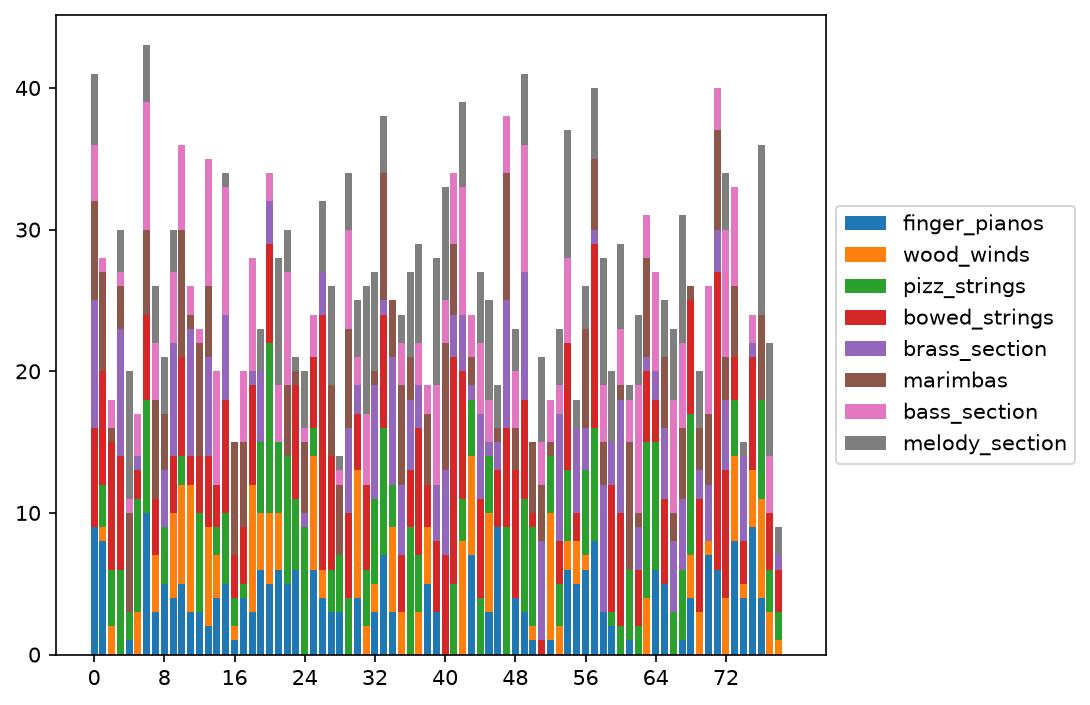
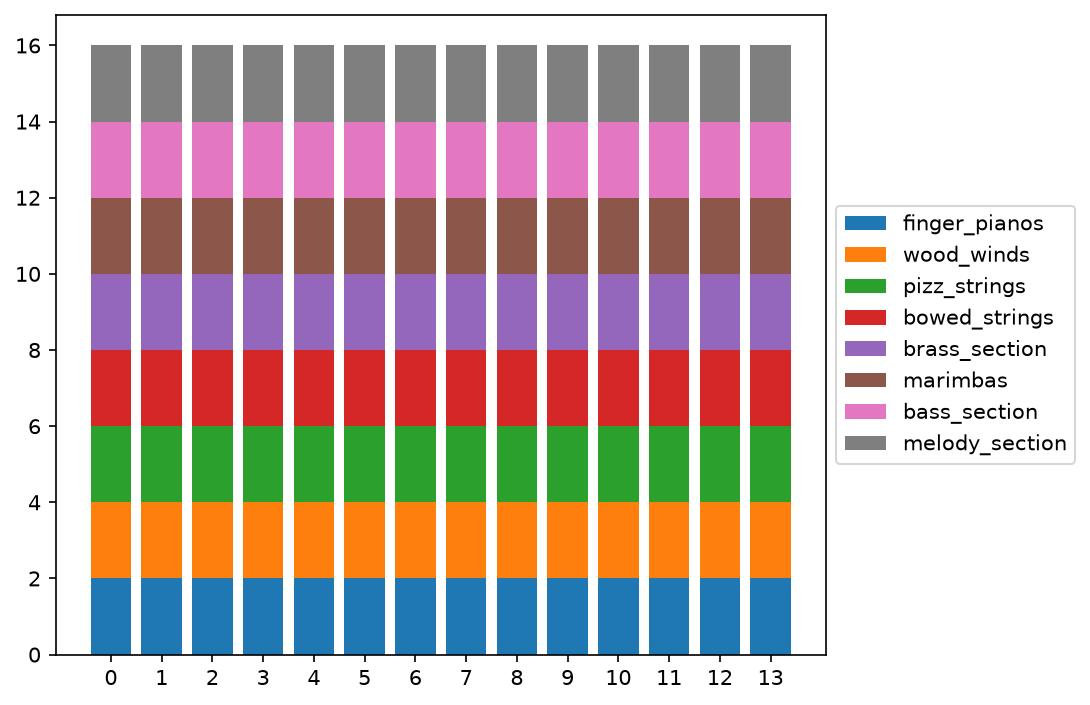
WreckingCrew.py accent default off; chord_report.py excerpts; notes
- WreckingCrew.py: --articulate_accent defaults to none (was 8@0.25).
- chord_report.py: --input_numpy_file may be a directory such as
  best-tunings (--chorale picks the chorale, newest array wins), and
  --include_slice reports on an excerpt, repeatable like WreckingCrew.py's.
- WreckingCrew.txt: session notes. plots/bwv261.jpg: regenerated.

diff --git a/chord_report.py b/chord_report.py
@@ -13,6 +13,20 @@ carries them (bwv262_t3_r1.500_lm19-opt.npy) and otherwise from the directory
 name (t3_r1.50_lm19).  --tolerance / --limit_max override, and are the only way
 to report on a file whose path encodes neither.
 
+--input_numpy_file may also be a directory of tunings, one or more per chorale,
+such as best-tunings; --chorale then picks the chorale, and the most recently
+written of its arrays is the one reported on:
+
+    python chord_report.py --chorale bwv411 --input_numpy_file Archive/straw-man/best-tunings
+
+--include_slice reports on an excerpt: raw chord columns [START, END), as
+WreckingCrew.py takes them, repeatable to join several.  Chords keep their raw
+numbers, and the slices are read as they play joined, so the first chord of a
+slice is compared against the last chord of the one before it:
+
+    python chord_report.py --chorale bwv411 --input_numpy_file Archive/straw-man/best-tunings \
+        --include_slice 0 64 --include_slice 184 208
+
 In the listing a ratio built on 11 or higher is marked *, and a cent value
 that moved more than a cent from the same pitch class in the previous chord
 is printed in red, since those moves are what the ear catches between chords.
@@ -33,7 +47,7 @@ import argparse
 import os
 import re
 import sys
-from itertools import combinations, count
+from itertools import combinations
 
 import numpy as np
 
@@ -73,6 +87,28 @@ def chorale_for(path):
     """The chorale name leading the filename, or None."""
     m = FILE_CHORALE.match(os.path.basename(path))
     return m.group(1) if m else None
+
+
+def newest_for(directory, chorale):
+    """The most recently written .npy in directory for this chorale, and how many there were."""
+    found = [os.path.join(directory, f) for f in os.listdir(directory)
+             if f.endswith('.npy') and chorale_for(f) == chorale]
+    return (max(found, key=os.path.getmtime) if found else None), len(found)
+
+
+def slice_columns(include_slice, n_chords):
+    """The raw columns the --include_slice pairs select, in order, or None for all of them."""
+    if not include_slice:
+        return None
+    cols = []
+    for start, end in include_slice:
+        if end <= start:
+            raise SystemExit(f'--include_slice expects END > START, got START={start}, END={end}')
+        if start < 0 or end > n_chords:
+            raise SystemExit(f'--include_slice expects [START, END) within 0..{n_chords}, '
+                             f'got START={start}, END={end}')
+        cols.extend(range(start, end))
+    return sorted(set(cols))
 
 
 def params_for(path, tolerance, limit_max):
@@ -248,11 +284,12 @@ def high_prime_share(cents, limit_max, tolerance):
 
 def print_chords(version, input_file, numpy_dir, measure, tolerance,
                  chord_scorer, tonal_diamond, keys, root, mode,
-                 cents, listing=True, color=False):
+                 cents, listing=True, color=False, columns=None):
     """Print the chords, and return (intervals, chord count) for the histogram.
 
     The ratios are worked out whether or not they are printed, so
-    --histogram_only counts exactly what the listing would have shown."""
+    --histogram_only counts exactly what the listing would have shown.
+    `columns` limits the report to those raw columns, read as one excerpt."""
     if listing:
         # score_video.py puts this line on the video's opening card.
         print(f'Key: {keys[root]} {mode}')
@@ -274,7 +311,10 @@ def print_chords(version, input_file, numpy_dir, measure, tolerance,
     else:
         first_col, end_col = 0, cents.shape[1]
     all_intervals, n_chords = [], 0
-    gaps = gap_voices(cents)
+    columns = list(range(cents.shape[1])) if columns is None else list(columns)
+    excerpt = cents[:, columns]
+    # Moves are counted along the excerpt as it plays, then given raw chord numbers.
+    gaps = {(columns[i], v): g for (i, v), g in gap_voices(excerpt).items()}
     if listing and gaps:
         moved = sorted({i for i, _v in gaps})
         shown = [i for i in moved if first_col <= i < end_col]
@@ -283,7 +323,7 @@ def print_chords(version, input_file, numpy_dir, measure, tolerance,
               + (f' ({len(shown)} of them in this measure)' if measure > 0 else '')
               + (': shown in red' if color else '; --color always shows them in red'))
     prev_chord = np.zeros(4, dtype=int)
-    for inx, chord_in_cents in zip(count(0, 1), cents.T):
+    for inx, chord_in_cents in zip(columns, excerpt.T):
         if not np.array_equal(prev_chord, chord_in_cents):
             if first_col <= inx < end_col:
                 n_chords += 1
@@ -324,9 +364,14 @@ def main():
     p.add_argument('--chorale', help='Chorale name, e.g. bwv262. Defaults to the '
                                      'leading bwvNNN of the filename')
     p.add_argument('--input_numpy_file', required=True,
-                   help='The tuned (4, N) cent array to report on')
+                   help='The tuned (4, N) cent array to report on, or a directory of them '
+                        '(with --chorale: its most recent array there)')
     p.add_argument('--measure', type=int, default=MEASURE,
                    help='Print only this measure; 0 prints all (default: 0)')
+    p.add_argument('--include_slice', nargs=2, type=int, metavar=('START', 'END'),
+                   action='append', default=None,
+                   help='Raw chord slice [START, END) to report on, as WreckingCrew.py takes it; '
+                        'repeat it to join several, e.g. --include_slice 0 64 --include_slice 184 208')
     p.add_argument('--histogram_only', action='store_true',
                    help='print only the prime histogram, not the chords')
     p.add_argument('--color', choices=('auto', 'always', 'never'), default='auto',
@@ -342,6 +387,19 @@ def main():
     if not os.path.exists(path):
         print(f'No such file: {path}', file=sys.stderr)
         return 1
+    if os.path.isdir(path):
+        if not args.chorale:
+            print(f'{path} is a directory: pass --chorale to say whose array to report on.',
+                  file=sys.stderr)
+            return 1
+        found, n_found = newest_for(path, args.chorale)
+        if found is None:
+            print(f'No {args.chorale} array in {path}', file=sys.stderr)
+            return 1
+        if n_found > 1:
+            print(f'{n_found} {args.chorale} arrays in {path}; using the newest, '
+                  f'{os.path.basename(found)}')
+        path = found
     chorale = args.chorale or chorale_for(path)
     if not chorale:
         print(f'Cannot tell the chorale from {os.path.basename(path)} — '
@@ -365,7 +423,9 @@ def main():
               f'It was tuned from the pre-14 Sep 2026 reading of the score (voices dealt into '
               f'rows, rests ignored), so the chords below are not the ones in the measures; '
               f're-tune {chorale} before trusting it.')
-    scores = np.array([chord_scorer.score_chord(c, tolerance=tolerance) for c in cents.T])
+    columns = slice_columns(args.include_slice, cents.shape[1])
+    shown = np.arange(cents.shape[1]) if columns is None else np.array(columns)
+    scores = np.array([chord_scorer.score_chord(c, tolerance=tolerance) for c in cents[:, shown].T])
 
     if not args.histogram_only:
         print('_' * 40)
@@ -373,14 +433,17 @@ def main():
     print(f'{numpy_dir}')
     print(f'tolerance: {tolerance}, limit_max: {limit_max}, '
           f'tonal diamond: {tonal_diamond.shape}, chords: {cents.shape[1]}')
+    if columns is not None:
+        spans = ', '.join(f'[{a}, {b})' for a, b in args.include_slice)
+        print(f'excerpt: {spans}, {len(columns)} of {cents.shape[1]} columns')
     print(f'Average score: {round(np.average(scores), 1)}, max score: {np.max(scores)}, '
-          f'max chord: {np.argmax(scores)}')
+          f'max chord: {shown[np.argmax(scores)]}')
 
     color = args.color == 'always' or (args.color == 'auto' and sys.stdout.isatty())
     intervals, n_chords = print_chords(
         chorale, path, numpy_dir, args.measure, tolerance, chord_scorer,
         tonal_diamond, keys, root, mode, cents,
-        listing=not args.histogram_only, color=color)
+        listing=not args.histogram_only, color=color, columns=columns)
     print_prime_histogram(intervals, n_chords, chorale)
 
     if PRINT_HITS_MISSES:

diff --git a/WreckingCrew.py b/WreckingCrew.py
@@ -3151,12 +3151,12 @@ if __name__ == "__main__":
                                "the end of the note, which reads as sustain on a decaying bar "
                                "and as a crescendo on anything that sustains by itself. "
                                "Default: 1,5")
-      parser.add_argument("--articulate_accent", dest="articulate_accent", type=str, default="8@0.25",
+      parser.add_argument("--articulate_accent", dest="articulate_accent", type=str, default="none",
                           help="Accent envelope shapes mixed in with the sustained ones, and how "
                                "often they are drawn, as '<envelopes>@<probability>'. e8 is the "
                                "bass's 'hit and drop most': a full-level attack that falls to half "
-                               "by mid-note and to zero at the end. 'none' turns accents off. "
-                               "Default: 8@0.25")
+                               "by mid-note and to zero at the end, e.g. 8@0.25. 'none' turns "
+                               "accents off. Default: none")
       parser.add_argument("--articulate_hold", dest="articulate_hold", type=str, default="on",
                           choices=["on", "off"],
                           help="Whether articulated notes ALSO get their sounding length trimmed "
